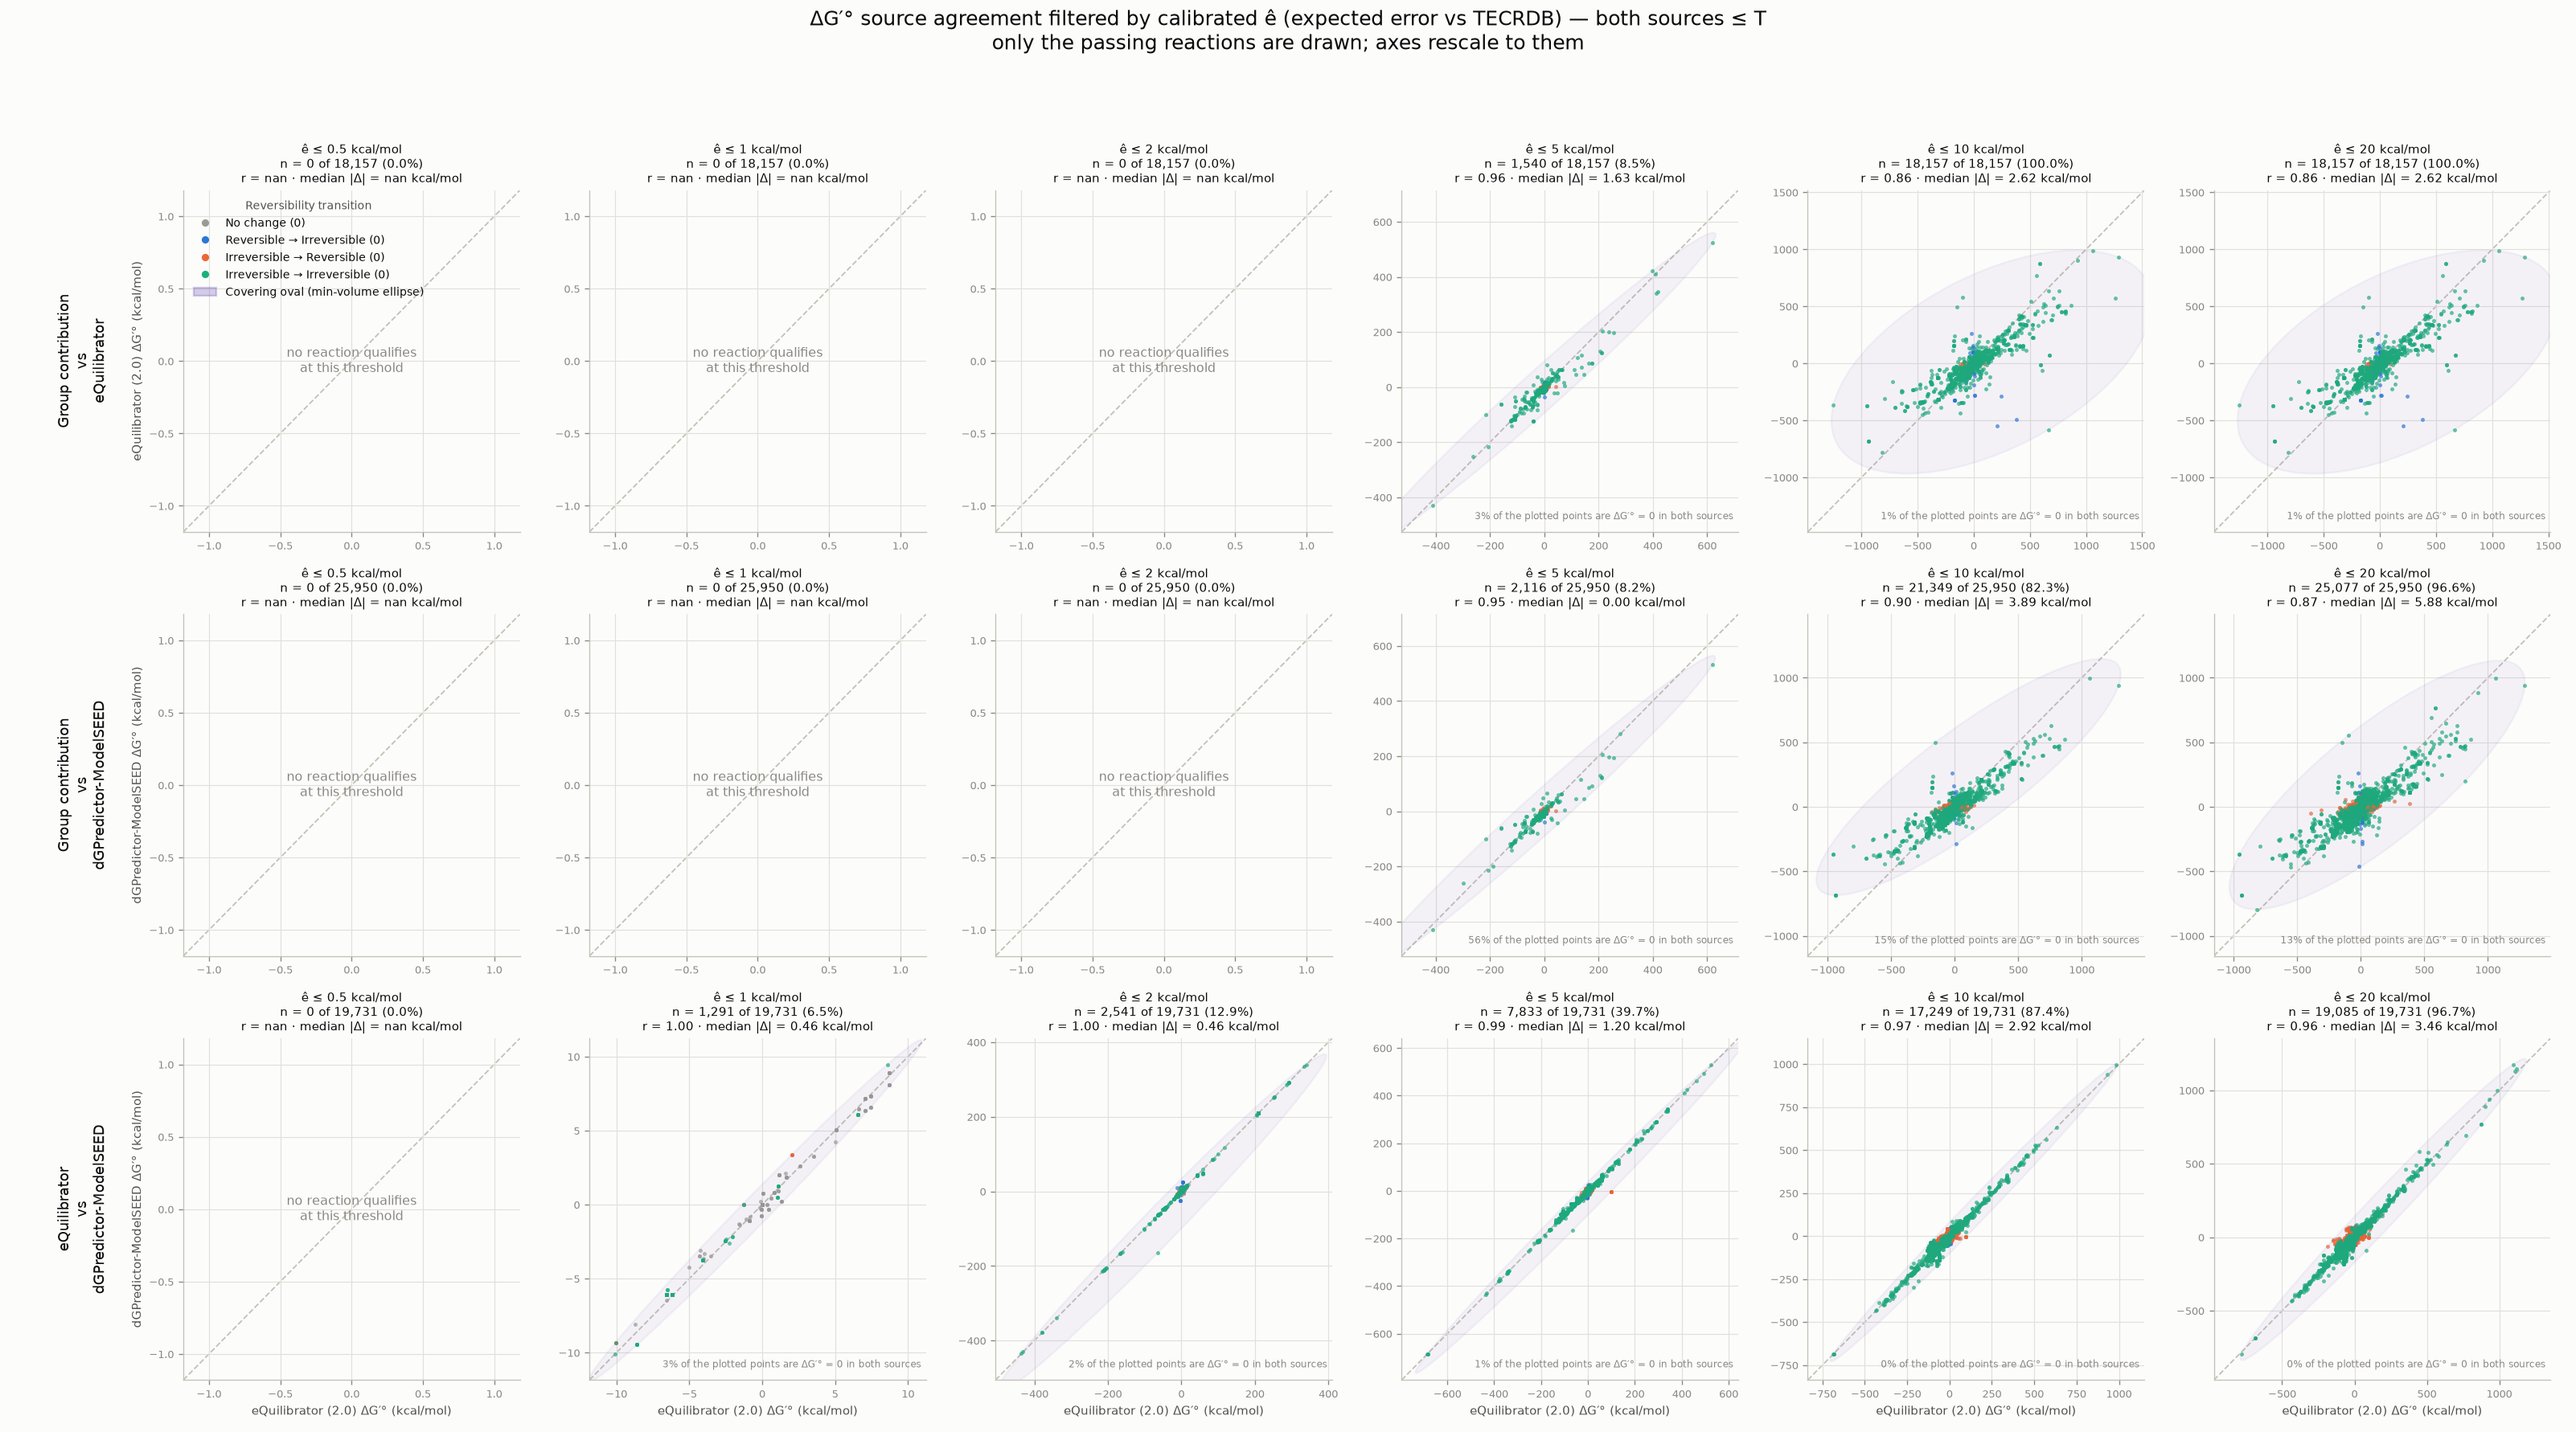
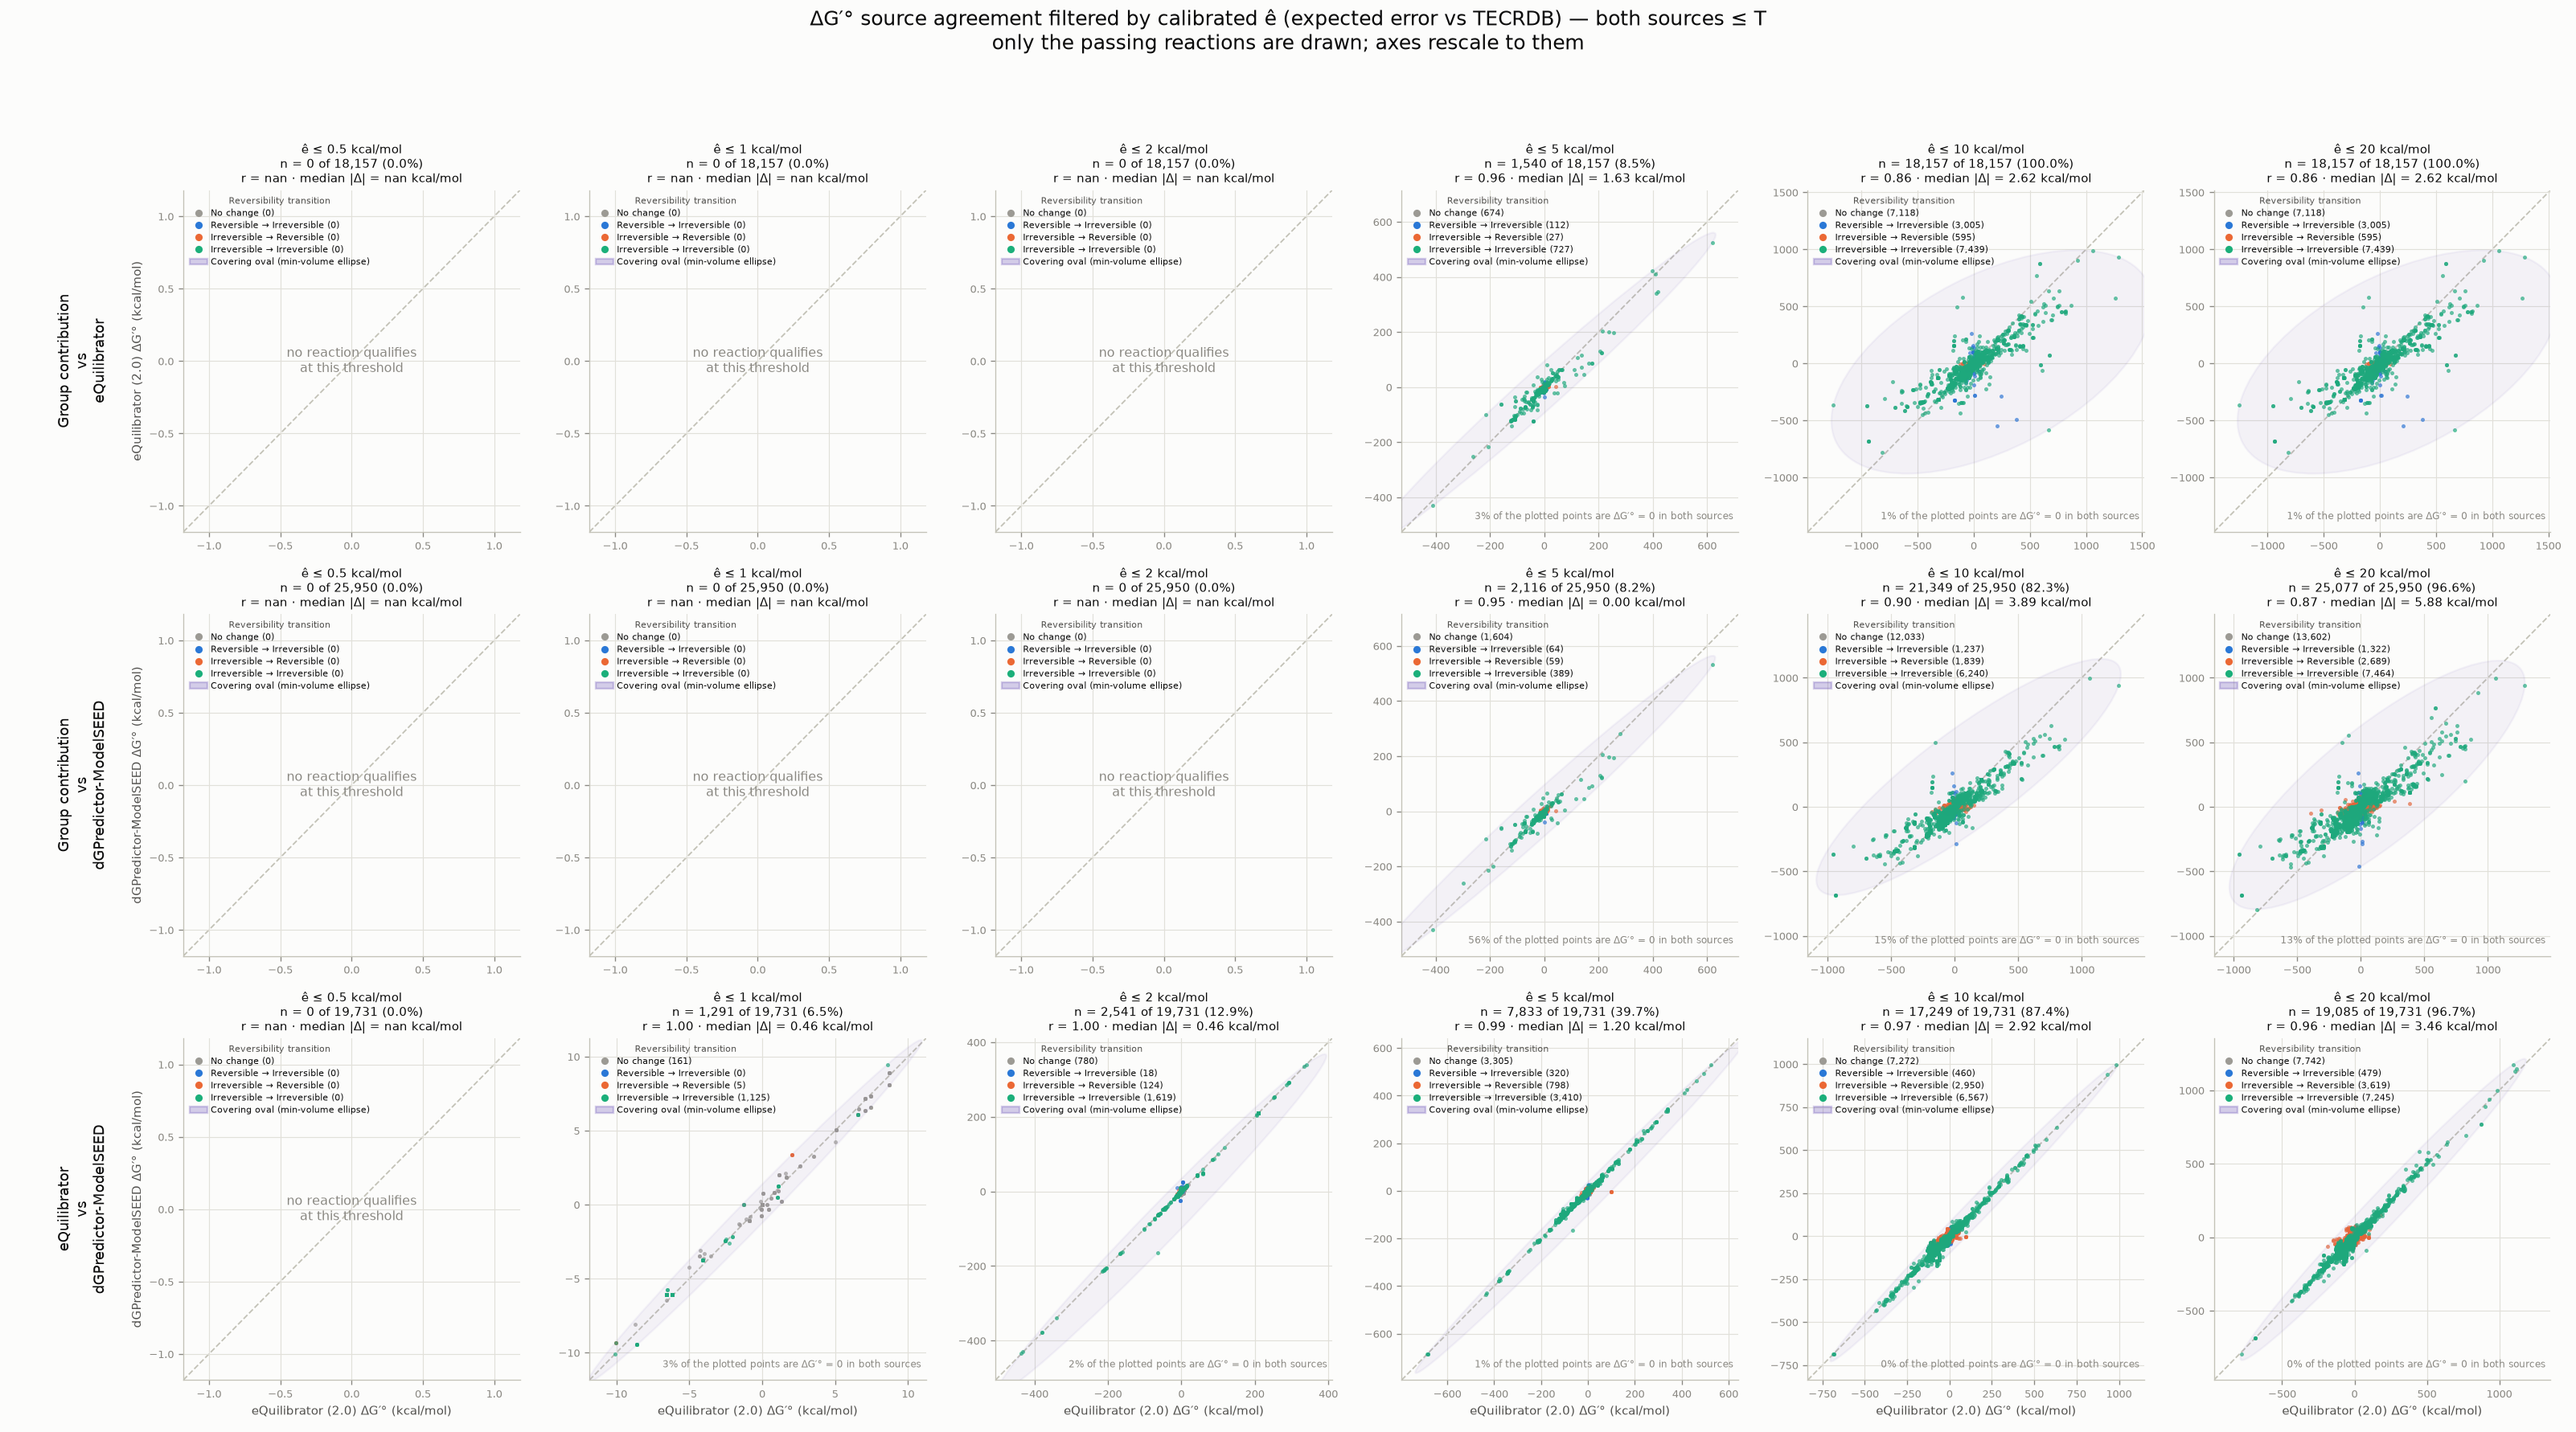
Put a key on every panel of the threshold grids, not just the first
Each grid is 3 pairs x 6 thresholds and only panel (0,0) carried a legend, so 17
of the 18 panels had no key. Every panel now draws one.

The counts in a legend entry are that panel's, so this is not repeated
boilerplate -- the key doubles as the per-slice category breakdown, and reading
across a row now shows which reversibility transitions survive the filter
without having to cross-reference slice_counts.tsv.

Compact panels get a 6.6pt legend with tightened labelspacing, handletextpad and
borderpad; the full-size single panels keep 8.5pt and matplotlib's default
spacing, so those render byte-identically to before.

diff --git a/scripts/plot_thermo_source_dg_scatter_filtered.py b/scripts/plot_thermo_source_dg_scatter_filtered.py
@@ -405,9 +405,13 @@ def draw_panel(ax, sub: pd.DataFrame, a: str, b: str, keep: np.ndarray,
         handles += [proxy_handle(cat, f"{cat} ({counts.get(cat, 0):,})")
                     for cat in CATEGORY_ORDER]
         handles.append(proxy_handle("oval", "Covering oval (min-volume ellipse)"))
+        fs = 6.6 if compact else 8.5
         leg = ax.legend(handles=handles, loc="upper left", frameon=False,
-                        fontsize=8.5, labelcolor=INK_PRIMARY,
-                        title="Reversibility transition", title_fontsize=8.5)
+                        fontsize=fs, labelcolor=INK_PRIMARY,
+                        title="Reversibility transition", title_fontsize=fs,
+                        labelspacing=0.32 if compact else 0.5,
+                        handletextpad=0.4 if compact else 0.8,
+                        borderpad=0.2 if compact else 0.4)
         leg.get_title().set_color(INK_SECONDARY)
     return {"n_keep": n_keep, "n_drop": n_drop, "r": r, "median_absdiff": med,
             "n_both_zero": n_zero, "frac_both_zero": frac_zero,
@@ -494,7 +498,7 @@ def main() -> None:
                     keep = passing_mask(sub, a, b, crit, tol)
                     st = draw_panel(ax, sub, a, b, keep, mode,
                                     xlim=row_lim, ylim=row_lim,
-                                    show_legend=(ri == 0 and ci == 0), compact=True)
+                                    show_legend=True, compact=True)
                     ax.set_title(slice_title(a, b, crit, tol, st, len(sub),
                                              compact=True),
                                  color=INK_PRIMARY, fontsize=9, pad=6)

diff --git a/reports/thermoComparison/figures/thermo_source_dg_scatter_filtered/README.md b/reports/thermoComparison/figures/thermo_source_dg_scatter_filtered/README.md
@@ -23,7 +23,9 @@ against the rebuilt GC (the previous fit no longer describes these values).
 | `slice_counts.tsv` | n passing / n excluded / r / median \|Δ\| / ΔG′°=0 share per slice |
 
 Thresholds T ∈ {0.5, 1, 2, 5, 10, 20} kcal/mol; a reaction passes iff **both**
-sources are ≤ T.
+sources are ≤ T. Every panel carries its own key, and the counts in it are that
+panel's — so the key doubles as the per-slice category breakdown rather than
+being repeated boilerplate.
 
 ## The two filters are not the same filter
 
